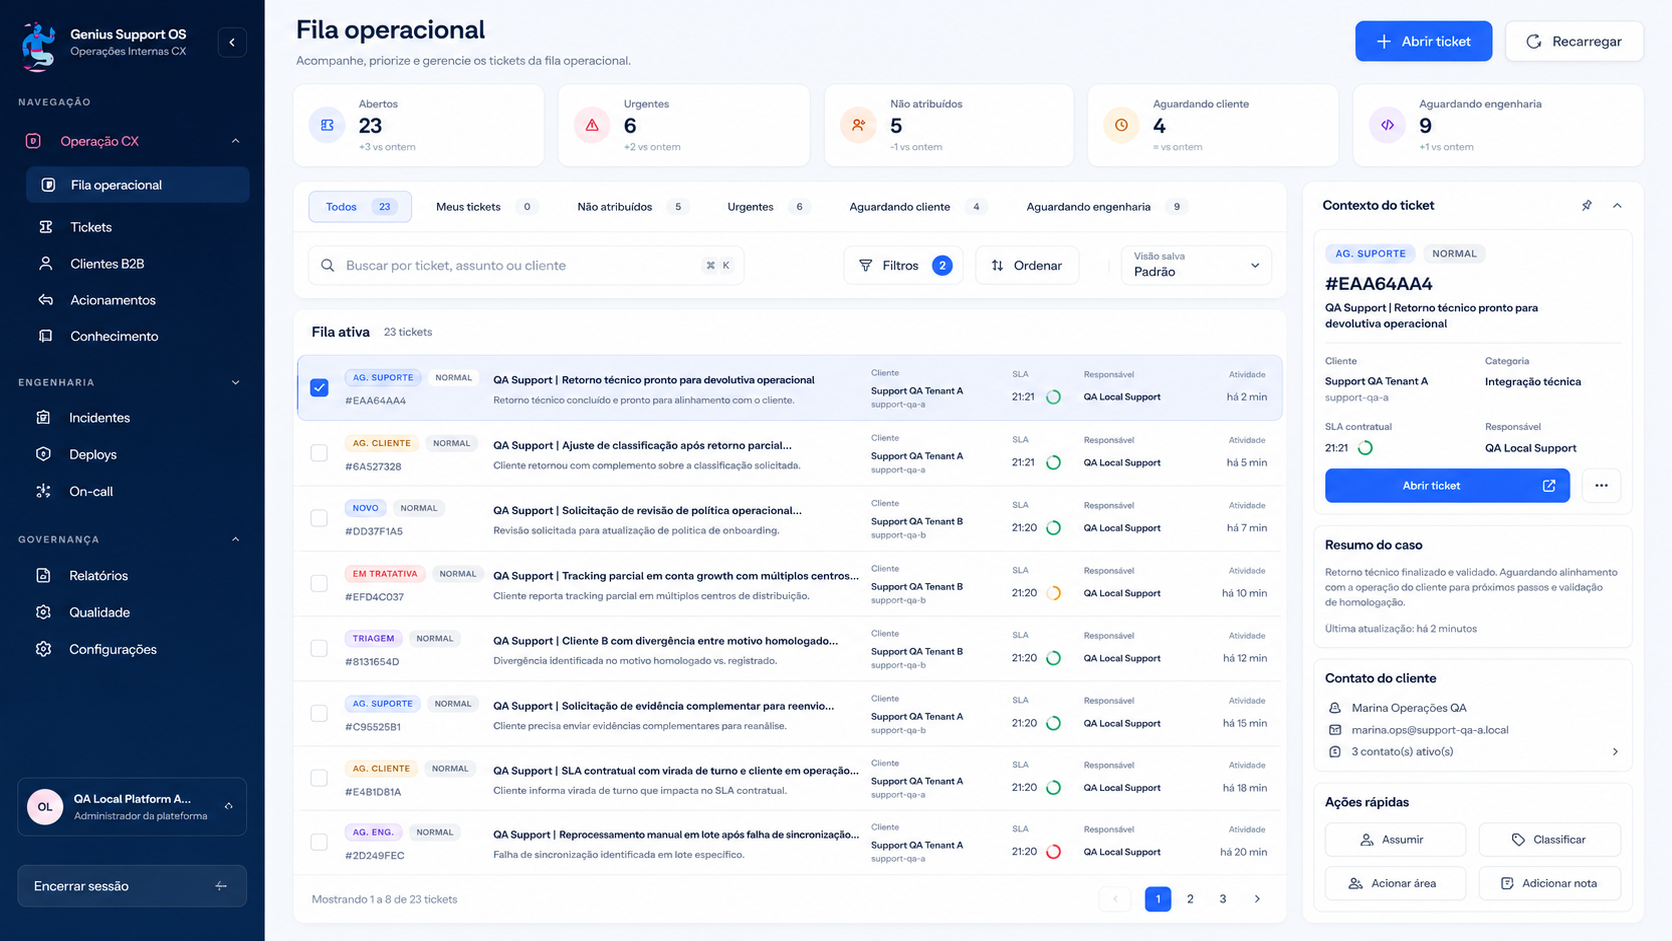
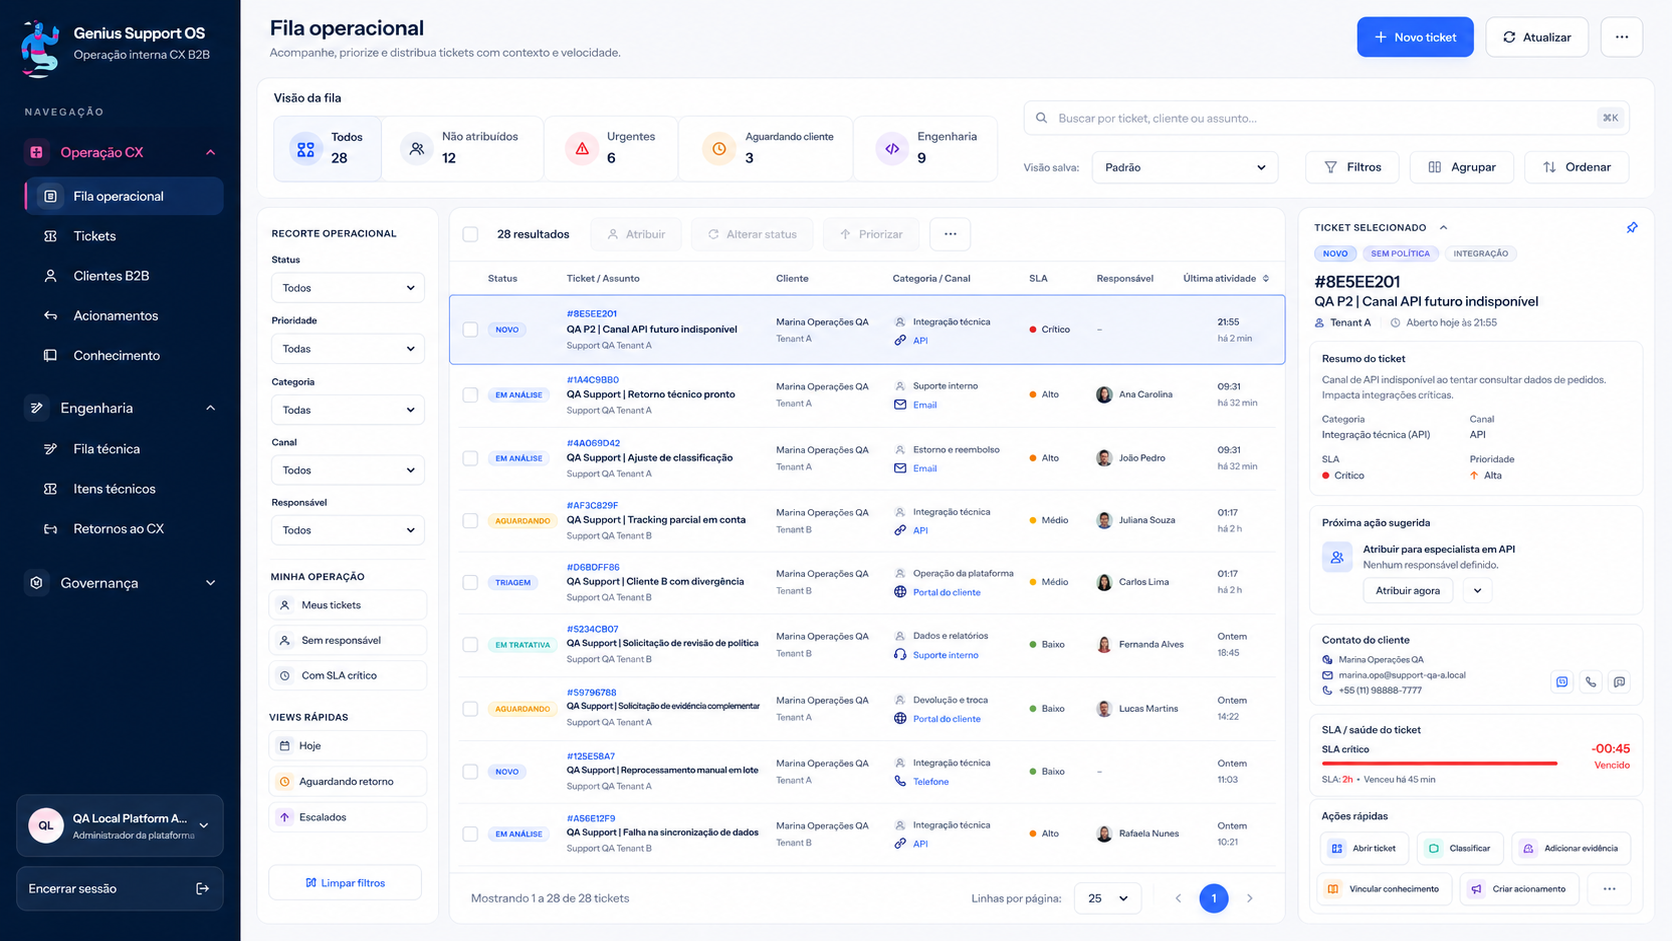
docs: consolidar blueprints visuais do suporte

diff --git a/docs/design/screens/SUPPORT_TICKET_WORKSPACE.md b/docs/design/screens/SUPPORT_TICKET_WORKSPACE.md
@@ -8,7 +8,7 @@
 
 Fonte visual obrigatória:
 
-`docs/design/blueprint/suporte/tickets e conversas omni.png`
+`docs/design/blueprint/suporte/tickets e conversas.png`
 
 Este é o blueprint vigente para a reconstrução visual da superfície.
 
@@ -18,13 +18,13 @@ Se houver divergência entre implementação atual, spec anterior e blueprint ap
 
 O contrato vigente não é chat-only.
 
-Ele é um workspace conversacional operacional com leitura **omnichannel**.
+Ele é um workspace conversacional operacional com leitura de origem e canal governada.
 
 Isso significa que a tela deve suportar visualmente, no mesmo fluxo:
 - mensagem pública;
 - nota interna;
 - evento de sistema;
-- contexto de canal;
+- contexto de origem/canal permitido pelo backend;
 - tratativa operacional do ticket.
 
 Não é feed social, não é inbox B2C e não é dashboard de cards.
@@ -39,7 +39,7 @@ A tela deve parecer uma ferramenta diária de atendimento técnico.
 
 Para esta superfície, seguir nesta ordem:
 
-1. Blueprint PNG aprovado de tickets e conversas omni.
+1. Blueprint PNG aprovado de tickets e conversas.
 2. Este screen spec.
 3. Primitive operacional do domínio Support.
 4. `docs/design/GENIUS_SUPPORT_OS_DESIGN_SYSTEM.md`
@@ -75,7 +75,7 @@ São responsabilidades desta superfície:
 - header operacional do ticket;
 - thread conversacional;
 - composer dockado;
-- contexto omnichannel;
+- contexto de origem/canal;
 - rail direito com resumo, cliente, SLA e ações rápidas.
 
 ## Estrutura obrigatória
@@ -268,7 +268,7 @@ Esta superfície deve comunicar:
 - cockpit operacional B2B;
 - atendimento técnico diário;
 - conversa real com contexto;
-- omnichannel operacional;
+- origem/canal operacional;
 - decisão rápida com contexto lateral.
 
 Ela não deve comunicar:
@@ -304,8 +304,8 @@ Regras:
 
 A tela só pode ser considerada pronta se:
 
-- lembrar claramente o blueprint `tickets e conversas omni.png`;
-- o contrato visual ficar explícito como omnichannel operacional, não chat-only simples;
+- lembrar claramente o blueprint `tickets e conversas.png`;
+- o contrato visual ficar explícito como conversa operacional com origem/canal governados, não chat-only simples;
 - a thread distinguir mensagem pública, nota interna e evento de sistema;
 - o composer estiver dockado ao fluxo da conversa;
 - o rail direito concentrar resumo do ticket, ações rápidas, SLA/contexto e cliente;

diff --git a/docs/DOCUMENTATION_LEDGER.md b/docs/DOCUMENTATION_LEDGER.md
@@ -18,6 +18,26 @@ Cada registro deve informar:
 
 ## Registros
 
+### Fase P4-E.1 - Blueprint Asset Consolidation & Worktree Cleanup
+- fase: `P4-E.1`
+- nome: `Blueprint Asset Consolidation & Worktree Cleanup`
+- branch: `codex/p4-e1-blueprint-asset-cleanup`
+- data: `2026-05-24`
+- resumo funcional: consolidados os PNGs de blueprint pendentes do Support Workspace. Os blueprints canonicos `fila operacional.png` e `tickets e conversas.png` foram preservados como referencias aprovadas; as variantes temporarias `tickets e conversas NEW*.png` foram removidas por duplicidade, ausencia de referencias documentais e presenca de acoes fora do MVP. O screen spec de tickets passou a apontar para o blueprint canonico sem promessa de canal externo ativo.
+- docs alterados:
+  - `docs/DOCUMENTATION_LEDGER.md`
+  - `docs/design/screens/SUPPORT_TICKET_WORKSPACE.md`
+  - `docs/design/blueprint/suporte/fila operacional.png`
+  - `docs/design/blueprint/suporte/tickets e conversas.png`
+- views/RPCs afetadas:
+  - nenhuma view, RPC, tabela, migration ou contrato novo.
+- telas afetadas:
+  - nenhuma tela runtime alterada; apenas assets e spec visual do Support Workspace.
+- riscos restantes:
+  - `tickets e conversas omni.png` permanece preservado como referencia historica, mas deixou de ser fonte canonica do screen spec por sugerir canais externos ativos fora do MVP.
+- impacto na FAQ futura:
+  - documenta que a referencia visual de suporte do MVP deve representar conversa operacional governada por origem/canal, sem prometer omni/provider externo ativo.
+
 ### Fase P4-E - Staging Environment Authorization & Remote Dry Run
 - fase: `P4-E`
 - nome: `Staging Environment Authorization & Remote Dry Run`
